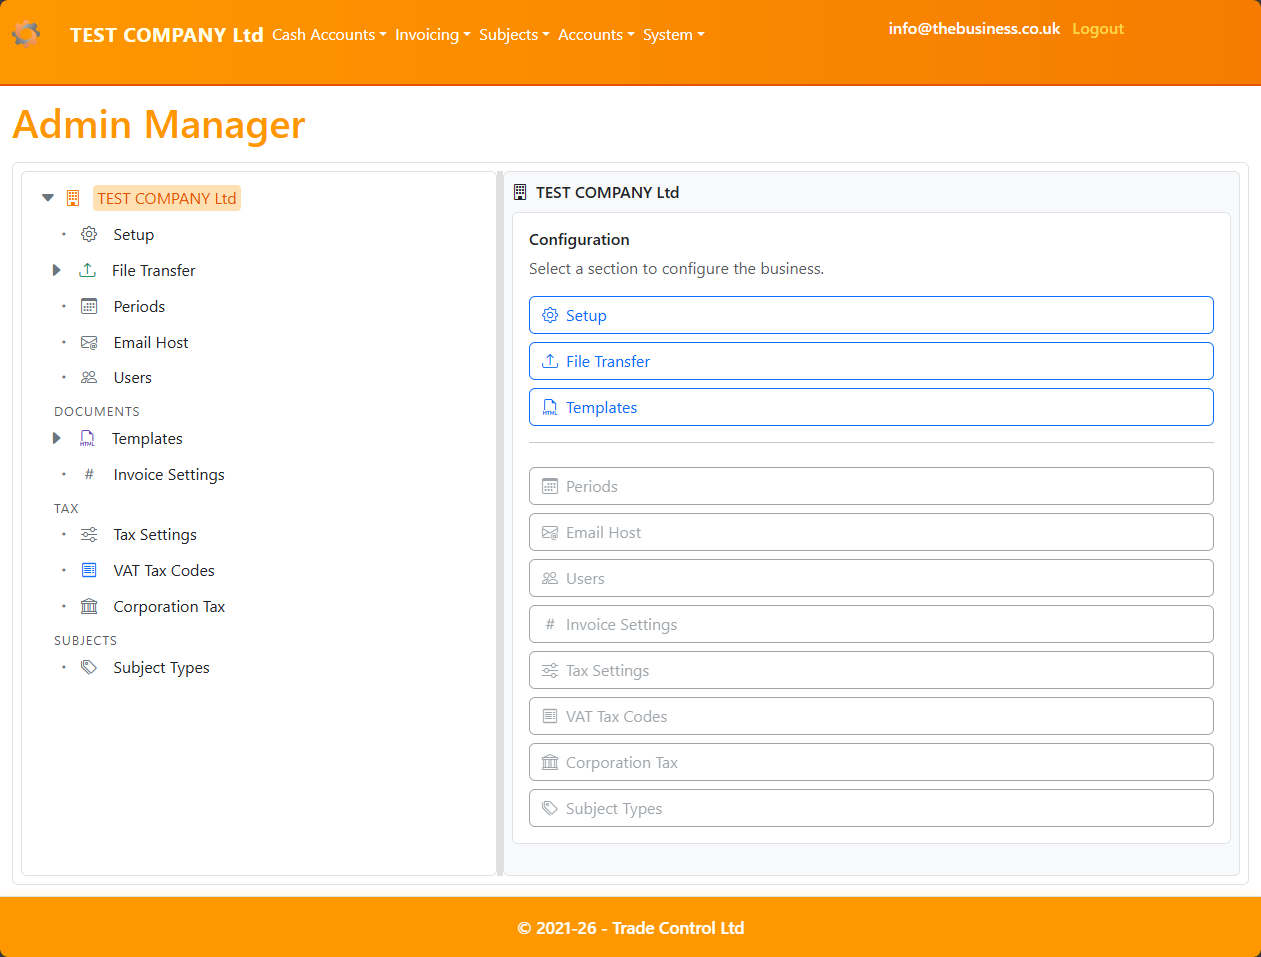
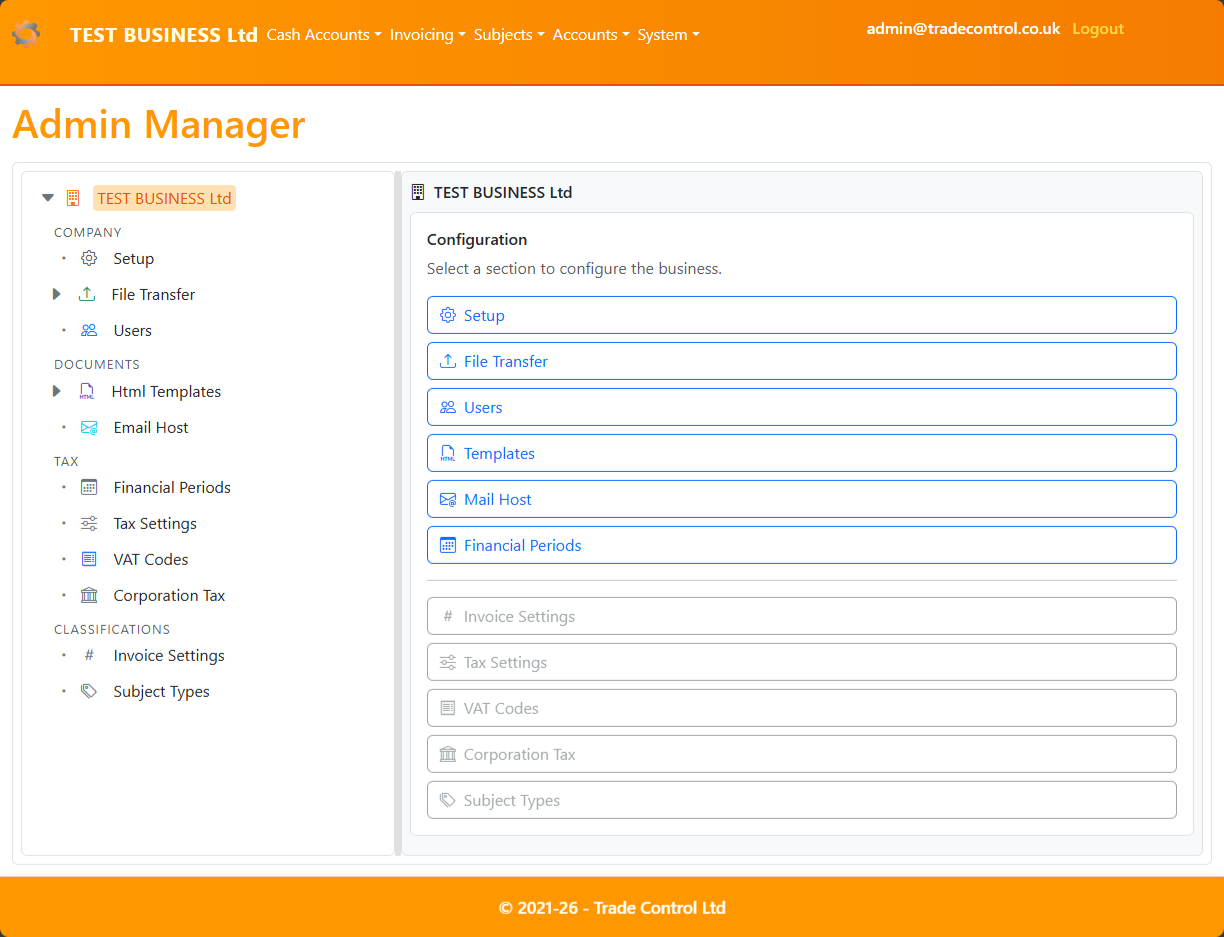
financial periods

diff --git a/src/scripts/mermaid-init.js b/src/scripts/mermaid-init.js
@@ -1,3 +1,5 @@
+import mermaid from "mermaid";
+
 const looksLikeMermaid = (text) => {
 	const t = (text ?? "").trimStart();
 
@@ -57,7 +59,7 @@ const run = async () => {
 
 	if (mermaidCandidates.length === 0) return;
 
-	const { default: mermaid } = await import("mermaid");
+	//const { default: mermaid } = await import("mermaid");
 
 	mermaid.initialize({
 		startOnLoad: false,

diff --git a/src/pages/admin/admin-manager-periods.md b/src/pages/admin/admin-manager-periods.md
@@ -1,0 +1,168 @@
+---
+layout: ../../layouts/Documentation.astro
+title: Admin Manager - Financial Periods
+permalink: /admin/admin-manager-periods
+---
+
+The Financial Periods module is where you define your accounting calendar and control how Trade Control closes each month.
+
+Financial Periods provide the “time structure” needed to measure business performance over defined accounting periods. They do not structure the data, since Trade Control stores transactions as atomic postings.
+
+A business system could operate without period ends. However, in most societies, period-based accounting is not optional in practice. It is central to how owners, lenders, auditors, and governments evaluate a business.
+
+## Why period ends matter
+
+Period ends are vitally important for:
+
+### 1) How much money can be extracted from the business
+
+Owners typically extract value from a business based on performance over an accounting period.
+
+Period ends support:
+
+- Measuring whether the business increased in value over a given period
+- Identifying how much capital (profit) is available for distribution or reinvestment
+- Producing comparable month-by-month and year-by-year results
+
+### 2) Corporation Tax (annual)
+
+Corporation Tax is calculated on profits earned over the business’s accounting year.
+
+A clear financial year structure and stable period closes help ensure:
+
+- Annual profit can be reported consistently
+- Adjustments to historic transactions are controlled and auditable
+
+### 3) VAT (quarterly)
+
+VAT is typically assessed over quarterly periods.
+
+Financial periods provide the date boundaries required to reliably determine:
+
+- How much VAT was collected on sales in the quarter
+- How much VAT was incurred on purchases in the quarter
+- The net VAT payable (or reclaimable) for that period
+
+## Access
+
+Open:
+
+- **System > Admin Manager**
+- In the tree: **Tax > Financial Periods**
+
+On desktop, Financial Periods opens in the right-hand pane. On mobile it opens as a full page.
+
+<div style="max-width: 900px; margin: 1rem 0;">
+    <img
+      src="/images/admin-manager-periods-tree.png"
+      alt="Admin Manager tree showing Tax > Financial Periods"
+      style="width: 100%; height: auto; display: block; border-radius: 8px;"
+    />
+</div>
+
+## Key concepts
+
+### Financial year
+
+A financial year defines the official 12‑month reporting cycle for the business.
+
+This is the year used to produce annual accounts and corporate tax reporting.
+
+### Monthly periods and boundaries
+
+Each year is split into monthly periods.
+
+A monthly period has a **start date**. It does not have to be the 1st.
+
+This lets you align period boundaries to real operational close-down schedules (for example, after stock take or other month-end routines).
+
+## Financial Periods (Index page)
+
+The Index page shows:
+
+- The current **Active period**
+- A list of financial years in the system
+- Administrator actions for close and rebuild
+
+<div style="max-width: 900px; margin: 1rem 0;">
+    <img
+      src="/images/admin-manager-periods-index.png"
+      alt="Financial Periods (Index) showing Active period, action buttons, and financial years list"
+      style="width: 100%; height: auto; display: block; border-radius: 8px;"
+    />
+</div>
+
+### Period End (close the month)
+
+Use **Period End** to close the current Active period and advance to the next month.
+
+Why this exists:
+
+- Month end creates stable reporting results for that period.
+- Without a close-down concept, historic results can change every time someone edits an older transaction.
+
+Expected outcome:
+
+- The Active period updates to the next month.
+- A success message is shown.
+
+<div style="max-width: 900px; margin: 1rem 0;">
+    <img
+      src="/images/admin-manager-periods-flash-success.png"
+      alt="Financial Periods success message after Period End or rebuild actions"
+      style="width: 100%; height: auto; display: block; border-radius: 8px;"
+    />
+</div>
+
+### Rebuild Periods (accept changes to closed history)
+
+Use **Rebuild Periods** if historic transactions have been changed in a period that has already been closed and you want reporting totals to reflect those changes.
+
+This is the explicit “accept the change into closed reporting” action.
+
+Expected outcome:
+
+- A success message is shown.
+- Reports that rely on closed period ends reflect the revised history.
+
+### Rebuild System (repair)
+
+Use **Rebuild System** only when you suspect the system’s period/reporting state is inconsistent or corrupted.
+
+Expected outcome:
+
+- A success message is shown, or
+- A failure message is shown with a link to Event Logs
+
+## Configure month boundaries to match your close-down schedule
+
+Use this workflow to align Trade Control period boundaries to your business month-end routines.
+
+1. Open **Financial Periods**
+2. Select **Edit** on the financial year you want to adjust
+3. In the month list, open the month you want to change
+4. Update the period **Start date**
+5. Select **Update**
+6. If the edited month is already closed and you want reports to reflect the change, run **Rebuild Periods**
+
+<div style="max-width: 900px; margin: 1rem 0;">
+    <img
+      src="/images/admin-manager-periods-edit-year.png"
+      alt="Edit Financial Year page showing the month list"
+      style="width: 100%; height: auto; display: block; border-radius: 8px;"
+    />
+</div>
+
+<div style="max-width: 900px; margin: 1rem 0;">
+    <img
+      src="/images/admin-manager-periods-edit-period.png"
+      alt="Edit Period page showing the Start date control"
+      style="width: 100%; height: auto; display: block; border-radius: 8px;"
+    />
+</div>
+
+## Event Logs
+
+If an action fails, the page provides a link to **Event Logs**.
+
+From Admin Manager on desktop, Event Logs opens outside the embedded pane and includes a **Back** button to return to Admin Manager with Financial Periods selected.

diff --git a/src/pages/admin/admin-manager-overview.md b/src/pages/admin/admin-manager-overview.md
@@ -60,6 +60,9 @@ This index will expand as additional modules are integrated.
 - [Users](/admin/admin-manager-users)
   - Process confirmed registrations by creating `Usr.tbUser`.
   - Assign roles and delete users safely.
+- [Financial Periods](/admin/admin-manager-periods)
+  - Set the financial year and monthly boundaries.
+  - Close months (Period End) and rebuild closed periods after historic changes.
 
 ## Related deployment documentation
 
